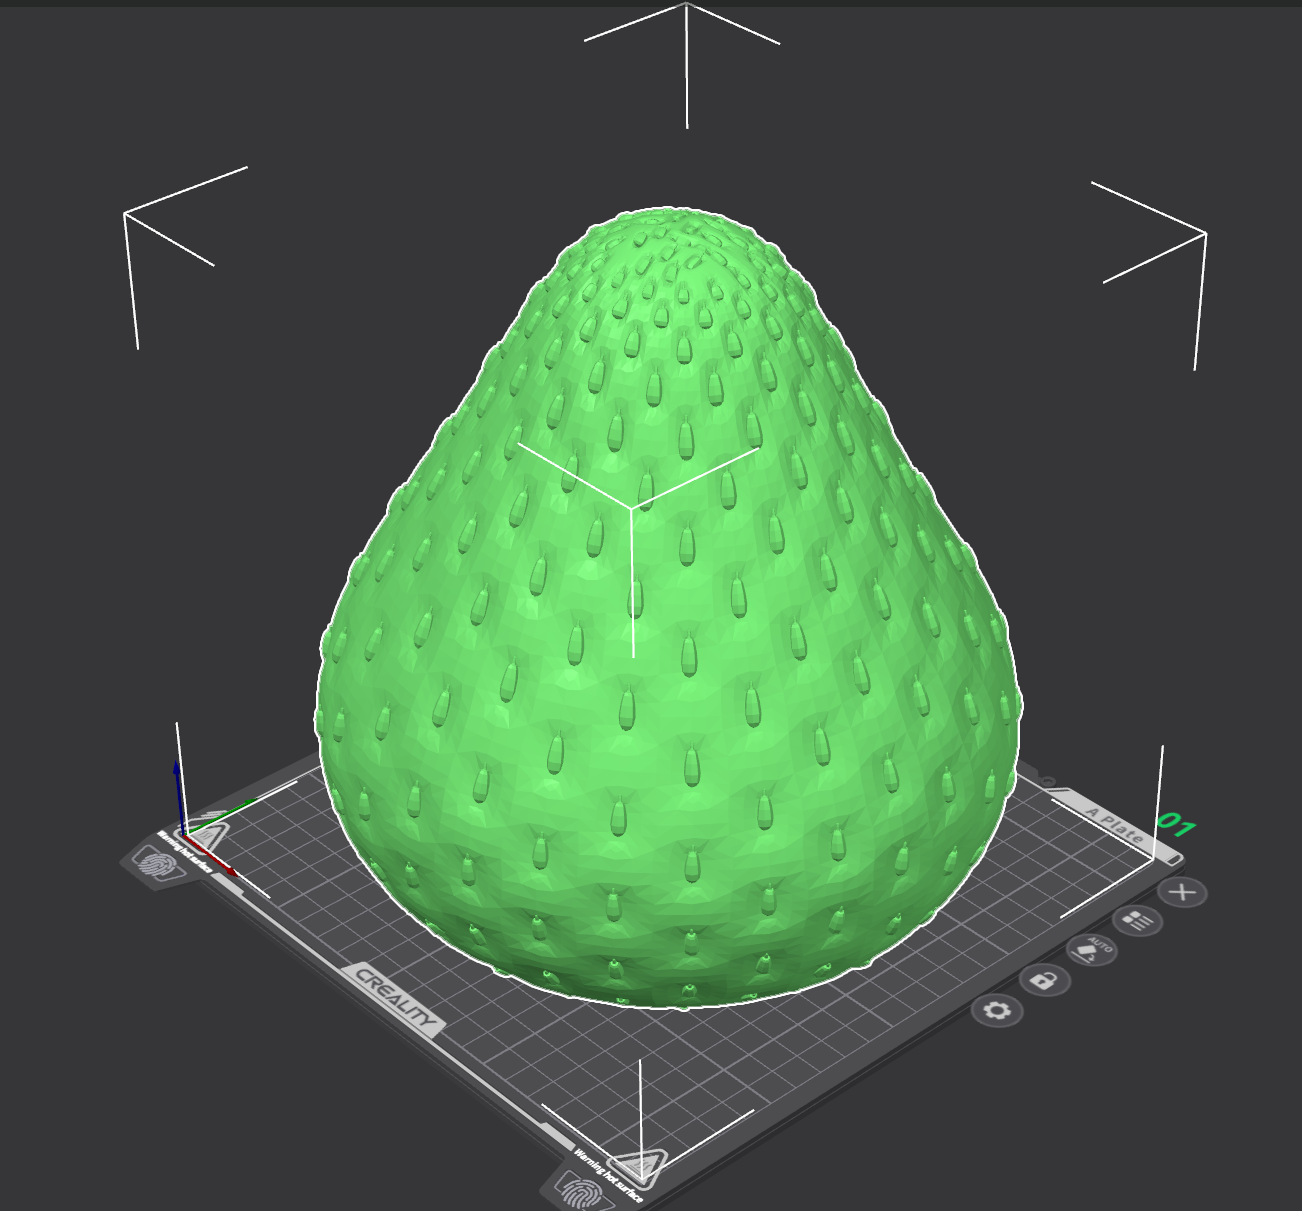
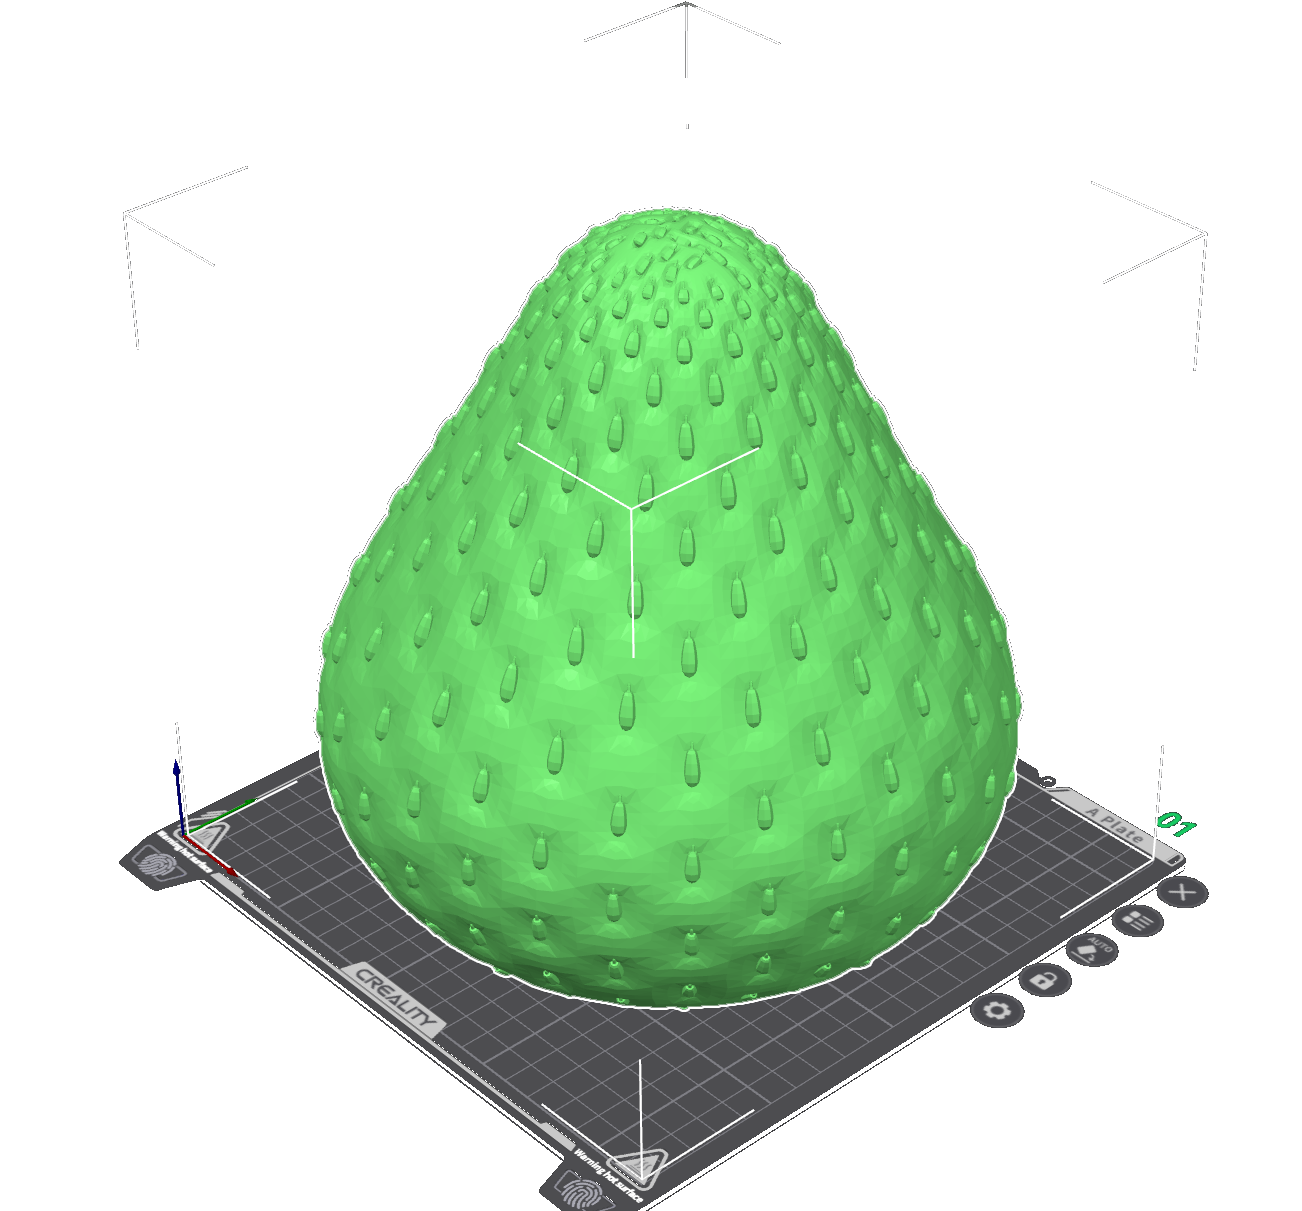
refine: omit berry photo 02, whiten PNG backgrounds

diff --git a/project-review-gg2026-berry.html b/project-review-gg2026-berry.html
@@ -12,9 +12,9 @@
         .berry-page h2.section-label { margin: 44px 0 14px; }
         .berry-page img { width: 100%; display: block; border-radius: 8px; }
         .trio { display: grid; grid-template-columns: repeat(3, 1fr); gap: 14px; }
-        .trio img { height: 300px; object-fit: cover; background: #111; }
+        .trio img { height: 300px; object-fit: cover; background: #fff; }
         .collage { display: grid; grid-template-columns: repeat(6, 1fr); gap: 14px; margin-top: 14px; }
-        .collage img { height: 260px; object-fit: cover; background: #111; }
+        .collage img { height: 260px; object-fit: cover; background: #fff; }
         .span-6 { grid-column: span 6; }
         .span-4 { grid-column: span 4; }
         .span-3 { grid-column: span 3; }
@@ -62,10 +62,9 @@
 
         <h2 class="section-label">Printed berries</h2>
         <section class="collage" aria-label="Printed berry photos">
+            <img class="span-3" src="images/berry-project/berry-photo-01.jpeg" alt="Printed berry project photo">
             <img class="span-3" src="images/berry-project/berry-photo-03.jpeg" alt="Printed oversized berries on display">
             <img class="span-3" src="images/berry-project/berry-photo-04.jpeg" alt="Printed oversized berries detail">
-            <img class="span-3" src="images/berry-project/berry-photo-01.jpeg" alt="Printed berry project photo">
-            <img class="span-3" src="images/berry-project/berry-photo-02.jpeg" alt="Printed berry project photo">
         </section>
 
         <section class="berry-copy">
